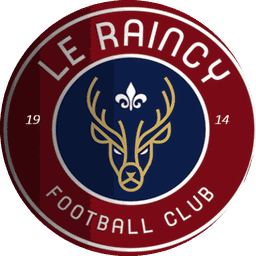
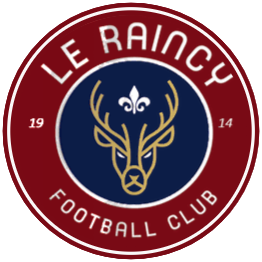
3.23 : blason du club sans ombre et en cercle complet, badge des messages privés corrigé

diff --git a/index.html b/index.html
@@ -13,7 +13,7 @@
 <link rel="manifest" href="manifest.webmanifest">
 <link rel="icon" href="icons/crest.png">
 <link rel="apple-touch-icon" href="icons/icon-180.png">
-<link rel="stylesheet" href="app.css?v=62">
+<link rel="stylesheet" href="app.css?v=63">
 </head>
 <body>
 <div class="shell">
@@ -30,36 +30,36 @@
 <div id="toast" class="toast" role="status" aria-live="polite"></div>
 
 <script src="https://cdn.jsdelivr.net/npm/jspdf@2.5.2/dist/jspdf.umd.min.js" crossorigin="anonymous"></script>
-<script src="js/config.js?v=62"></script>
-<script src="js/icons.js?v=62"></script>
-<script src="js/board.js?v=62"></script>
-<script src="js/store.js?v=62"></script>
-<script src="js/ui.js?v=62"></script>
-<script src="js/clubs.js?v=62"></script>
-<script src="js/exporter.js?v=62"></script>
-<script src="js/auth.js?v=62"></script>
-<script src="js/media.js?v=62"></script>
-<script src="js/ratings.js?v=62"></script>
-<script src="js/library.js?v=62"></script>
-<script src="js/importer.js?v=62"></script>
-<script src="js/help.js?v=62"></script>
-<script src="js/cloud.js?v=62"></script>
-<script src="js/sync.js?v=62"></script>
-<script src="js/planning.js?v=62"></script>
-<script src="js/results.js?v=62"></script>
-<script src="js/messages.js?v=62"></script>
-<script src="js/people.js?v=62"></script>
-<script src="js/templates.js?v=62"></script>
-<script src="js/editor.js?v=62"></script>
-<script src="js/clublife.js?v=62"></script>
-<script src="js/weather.js?v=62"></script>
-<script src="js/notify.js?v=62"></script>
-<script src="js/vestiaires.js?v=62"></script>
-<script src="js/analyse.js?v=62"></script>
-<script src="js/clubadmin.js?v=62"></script>
-<script src="js/parents.js?v=62"></script>
-<script src="js/president.js?v=62"></script>
-<script src="js/views.js?v=62"></script>
-<script src="js/app.js?v=62"></script>
+<script src="js/config.js?v=63"></script>
+<script src="js/icons.js?v=63"></script>
+<script src="js/board.js?v=63"></script>
+<script src="js/store.js?v=63"></script>
+<script src="js/ui.js?v=63"></script>
+<script src="js/clubs.js?v=63"></script>
+<script src="js/exporter.js?v=63"></script>
+<script src="js/auth.js?v=63"></script>
+<script src="js/media.js?v=63"></script>
+<script src="js/ratings.js?v=63"></script>
+<script src="js/library.js?v=63"></script>
+<script src="js/importer.js?v=63"></script>
+<script src="js/help.js?v=63"></script>
+<script src="js/cloud.js?v=63"></script>
+<script src="js/sync.js?v=63"></script>
+<script src="js/planning.js?v=63"></script>
+<script src="js/results.js?v=63"></script>
+<script src="js/messages.js?v=63"></script>
+<script src="js/people.js?v=63"></script>
+<script src="js/templates.js?v=63"></script>
+<script src="js/editor.js?v=63"></script>
+<script src="js/clublife.js?v=63"></script>
+<script src="js/weather.js?v=63"></script>
+<script src="js/notify.js?v=63"></script>
+<script src="js/vestiaires.js?v=63"></script>
+<script src="js/analyse.js?v=63"></script>
+<script src="js/clubadmin.js?v=63"></script>
+<script src="js/parents.js?v=63"></script>
+<script src="js/president.js?v=63"></script>
+<script src="js/views.js?v=63"></script>
+<script src="js/app.js?v=63"></script>
 </body>
 </html>

diff --git a/js/messages.js b/js/messages.js
@@ -163,7 +163,7 @@ const Messages = (() => {
         ${item('general')}
         ${mineTeams.size ? `<div class="ch-sec">Mes catégories</div>${groupItems(groups.filter(mineGroup))}` : ''}
         <div class="ch-sec">${mineTeams.size ? 'Les autres catégories' : 'Catégories'}</div>${groupItems(groups.filter(g => !mineGroup(g)))}
-        <div class="ch-sec">Messages privés</div>${dms.map(item).join('')}
+        <div class="ch-sec">Messages privés</div>${dms.map(c => item(c)).join('')}
         <button class="btn soft wide" id="newDm">${I.plus}<span>Écrire à un éducateur</span></button>
       </aside>
       <section class="conv">${ch ? `

diff --git a/parents.html b/parents.html
@@ -80,7 +80,7 @@ button, select { font: inherit; }
 <header class="top"><div class="top-in"><img src="icons/crest.png" alt=""><div><p id="club">FA Le Raincy · Espace parents</p><h1 id="team">Chargement…</h1></div></div></header>
 <main id="page"><p class="empty">Chargement des informations de l'équipe…</p></main>
 <div id="toast" class="toast" role="status" aria-live="polite"></div>
-<script src="js/config.js?v=62"></script>
-<script src="js/parents-page.js?v=62"></script>
+<script src="js/config.js?v=63"></script>
+<script src="js/parents-page.js?v=63"></script>
 </body>
 </html>

diff --git a/js/app.js b/js/app.js
@@ -95,7 +95,7 @@ const App = (() => {
   })();
   /* Updates: version.json on the site says which build is online. When it is newer than this one,
      the app empties its offline copy and reloads (an iPhone can keep an old copy open for days). */
-  const BUILD = 62, UPD = 'raincy-update-tried';
+  const BUILD = 63, UPD = 'raincy-update-tried';
   async function onlineBuild() {
     const r = await fetch('version.json?t=' + Date.now(), { cache: 'no-store' });
     return (await r.json()).build || 0;

diff --git a/sw.js b/sw.js
@@ -1,5 +1,5 @@
 /* Service worker: keeps the app working without internet. Bump VERSION after each update. */
-const VERSION = 'raincy-coach-v62';
+const VERSION = 'raincy-coach-v63';
 const JSPDF = 'https://cdn.jsdelivr.net/npm/jspdf@2.5.2/dist/jspdf.umd.min.js';
 const FILES = [
   './', 'index.html', 'app.css', 'manifest.webmanifest',

diff --git a/js/help.js b/js/help.js
@@ -2,7 +2,7 @@
    Errors are caught and kept so a coach can attach them to a report. */
 const Help = (() => {
   const { esc, $, $$, toast, modal } = UI;
-  const VERSION = '3.22';
+  const VERSION = '3.23';
   const TOUR_KEY = 'raincy-tour-seen', ERR_KEY = 'raincy-errors';
 
   /* ---------- error log ---------- */
